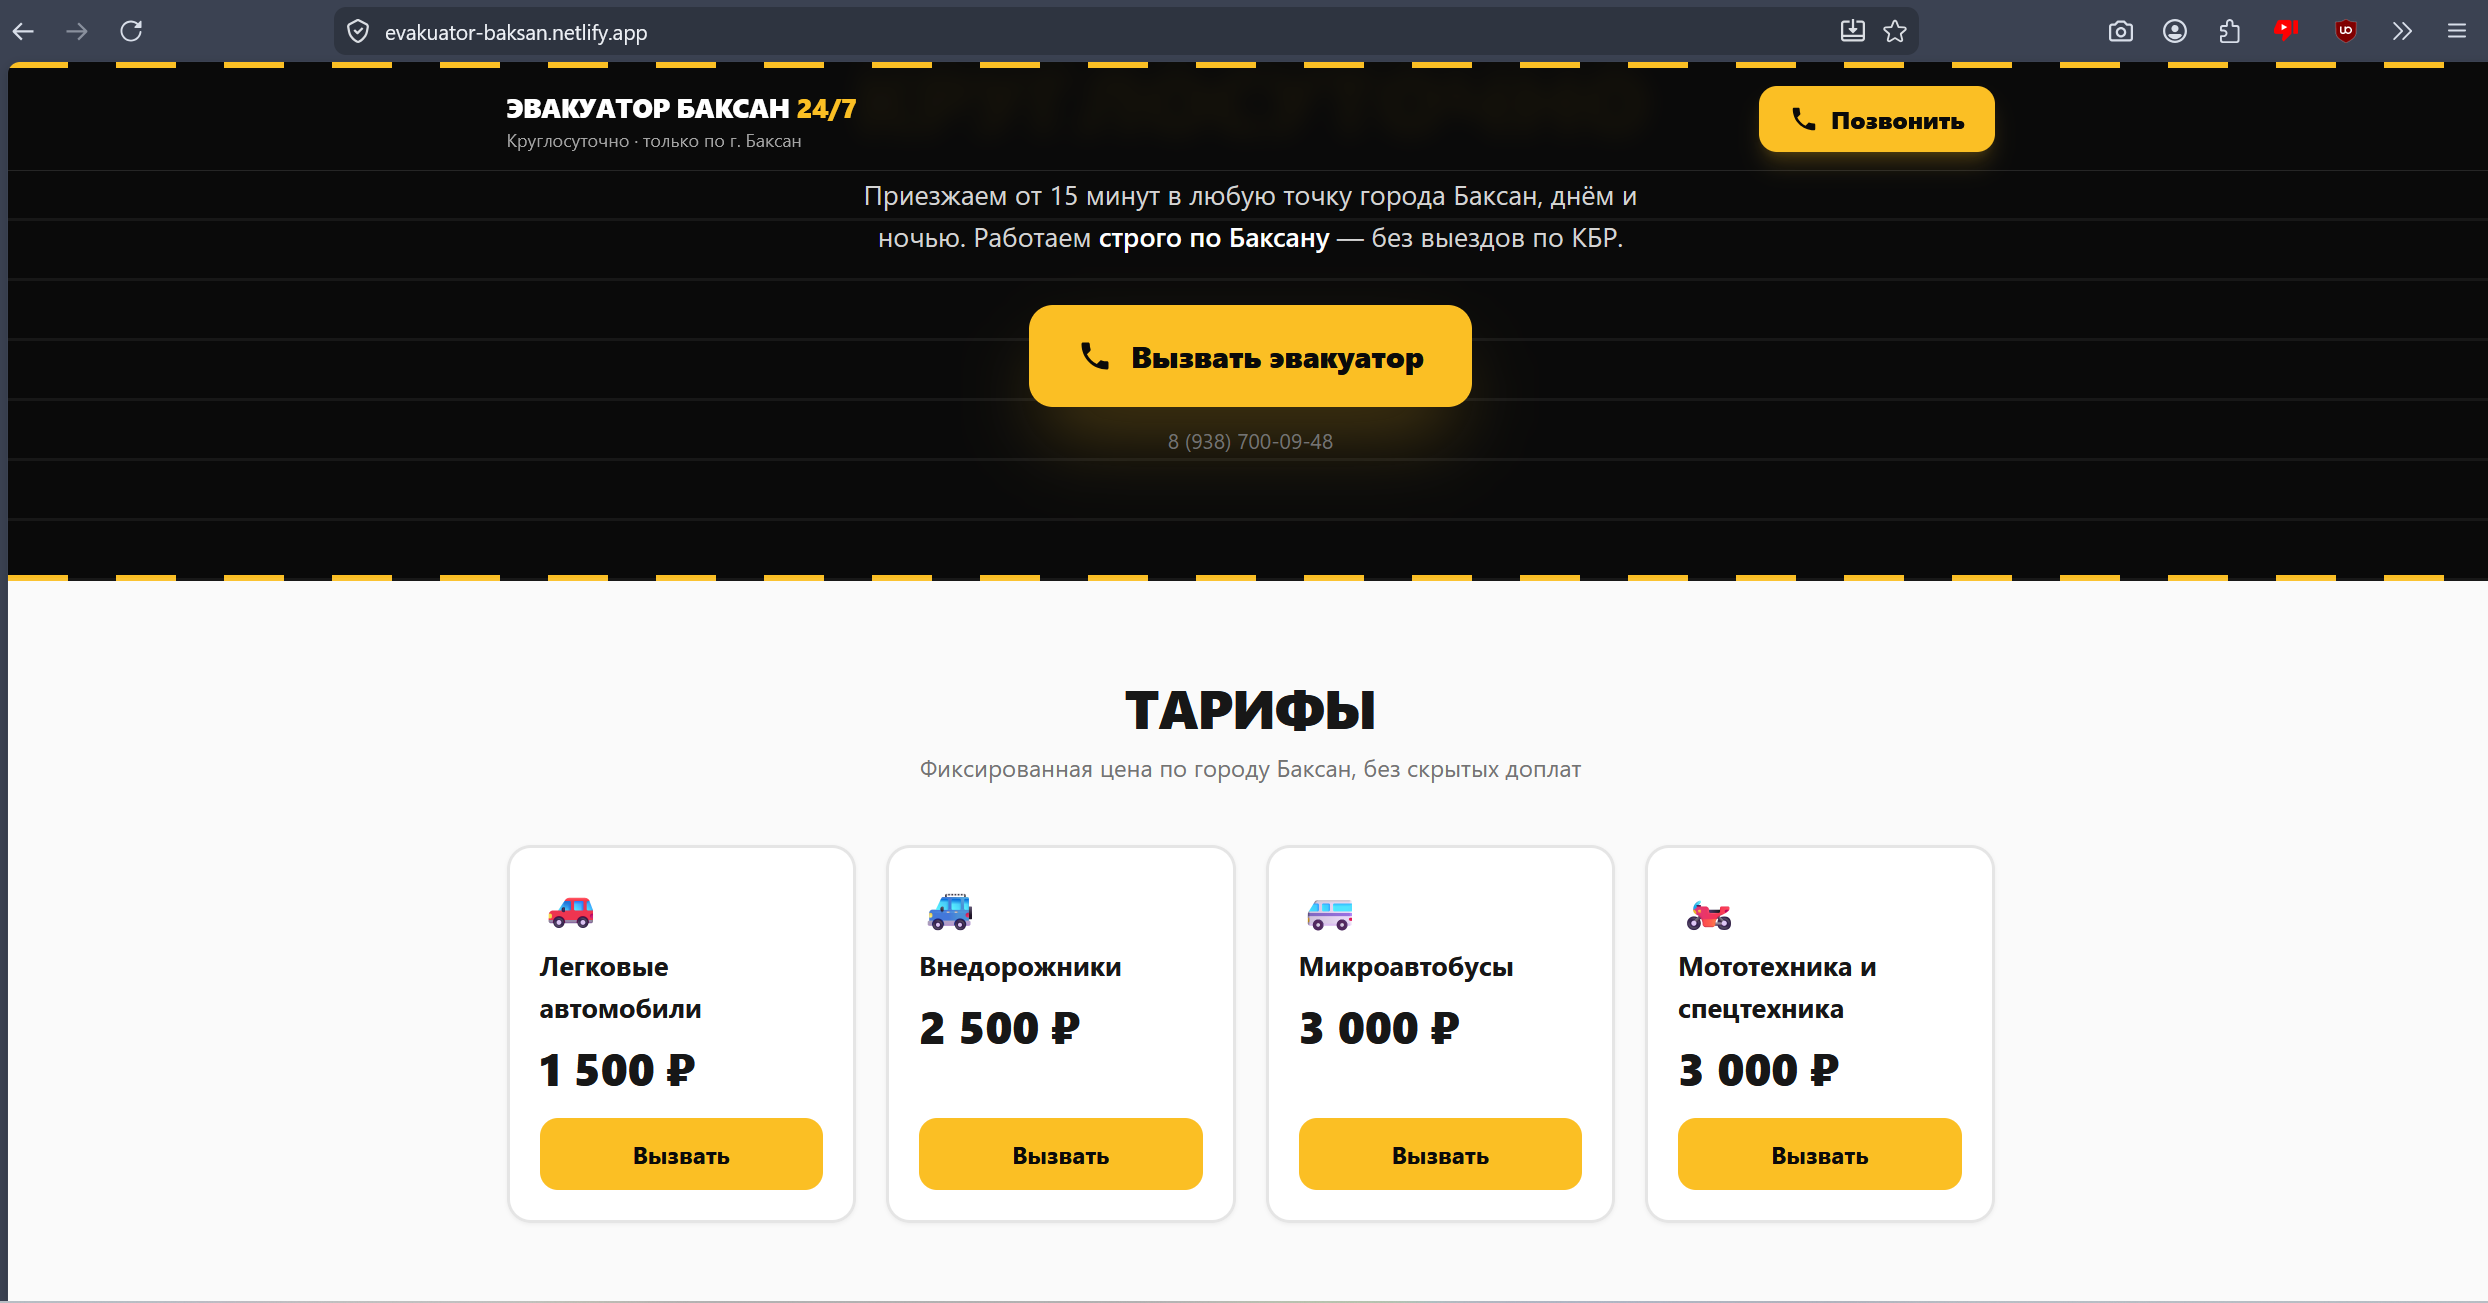
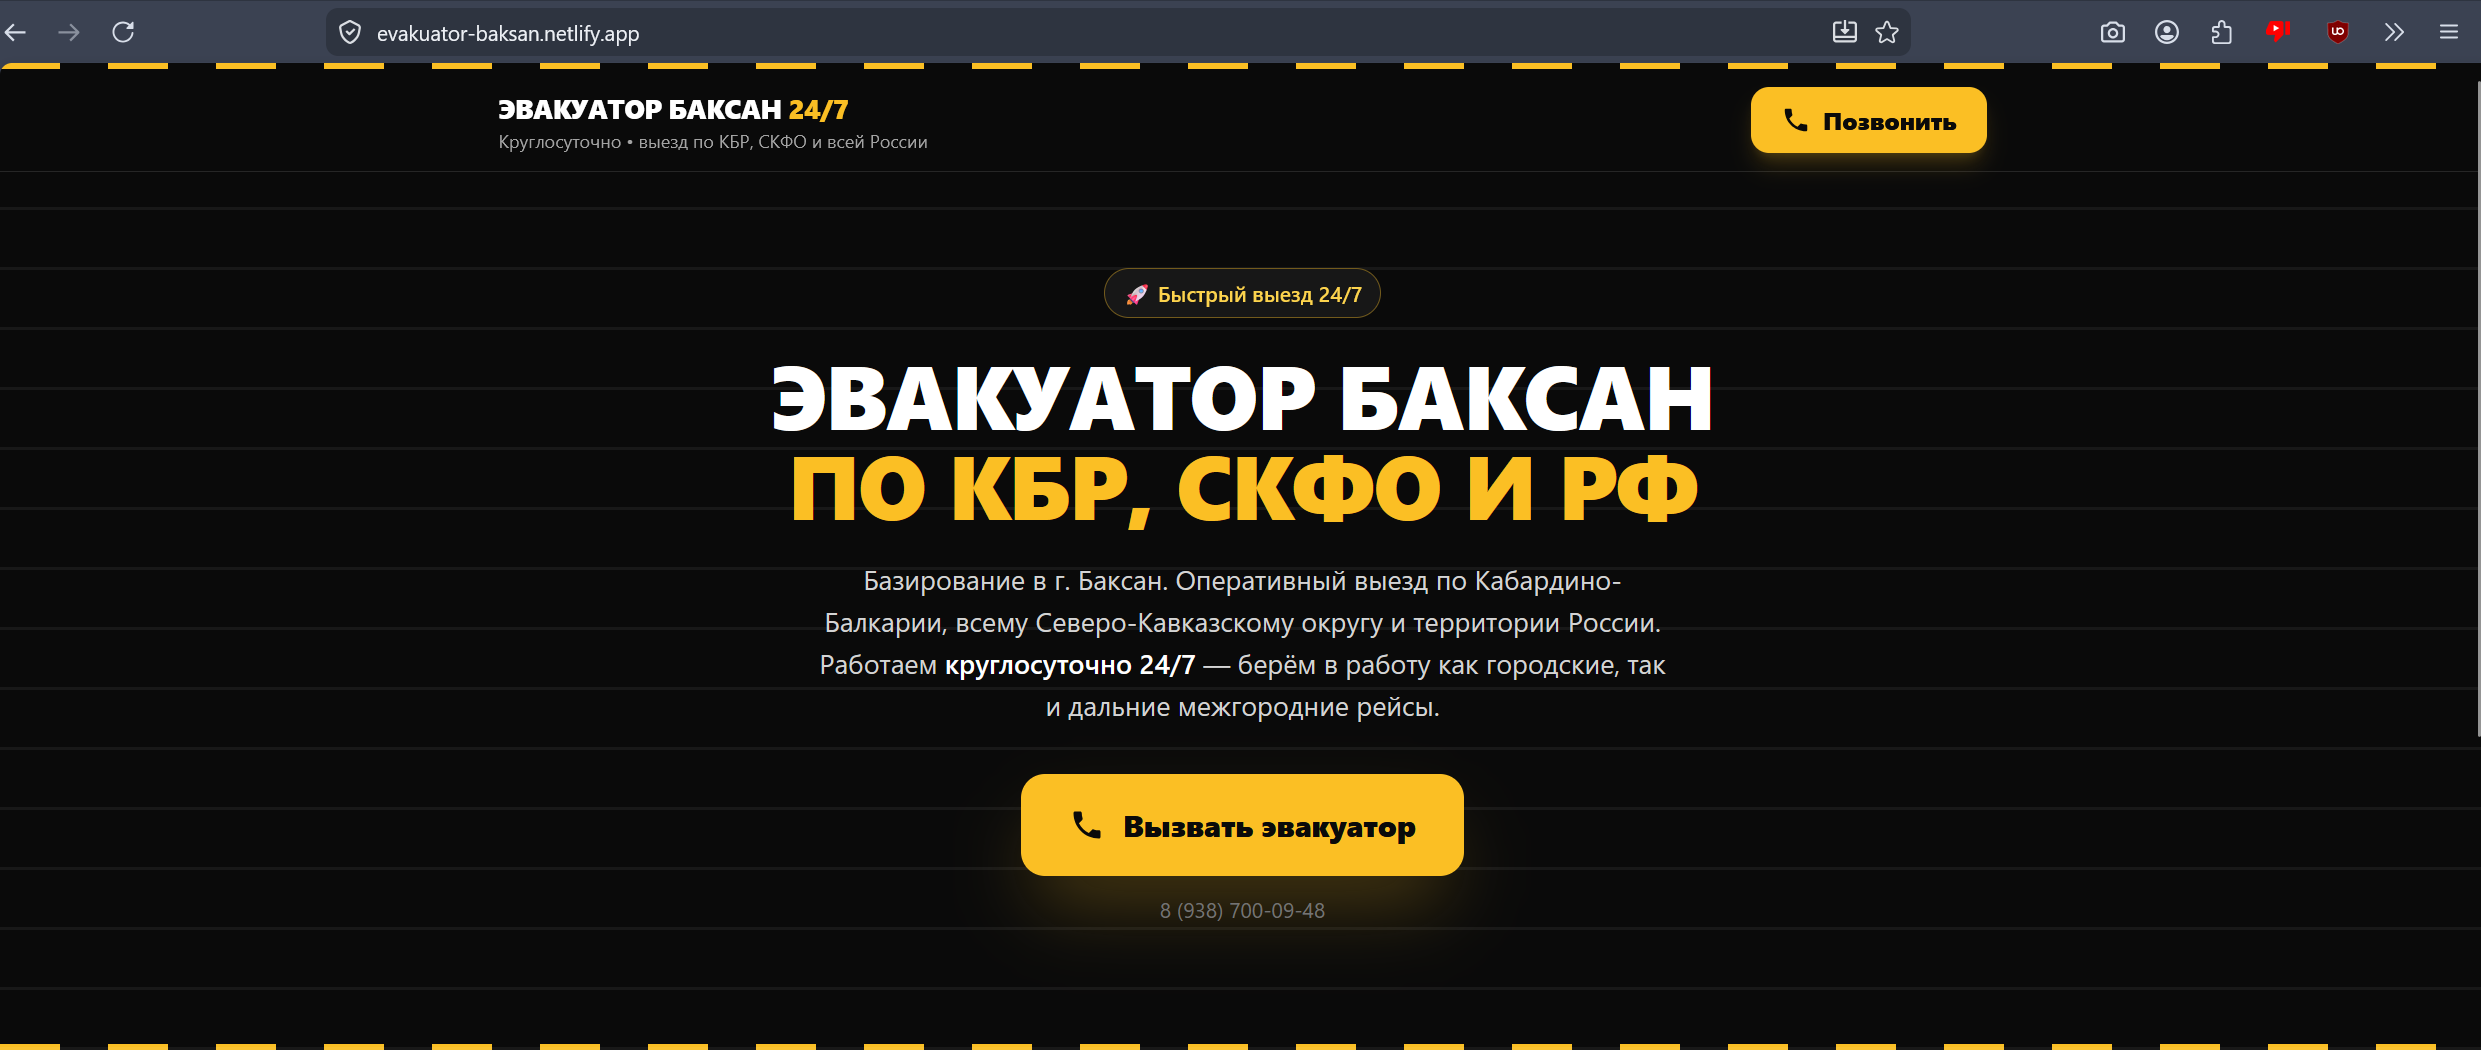
Add files via upload

diff --git a/index.html b/index.html
@@ -3,8 +3,8 @@
 <head>
 <meta charset="UTF-8">
 <meta name="viewport" content="width=device-width, initial-scale=1.0, maximum-scale=1">
-<title>Эвакуатор Баксан 24/7 — подача от 15 минут</title>
-<meta name="description" content="Эвакуатор в Баксане круглосуточно. Подача от 15 минут строго по городу Баксан. Звоните: 8 (938) 700-09-48">
+<title>Эвакуатор Баксан 24/7 — выезд по КБР, СКФО и России</title>
+<meta name="description" content="Эвакуатор Баксан 24/7. Круглосуточный оперативный выезд по Кабардино-Балкарии, СКФО и всей России. Базирование в г. Баксан. Звоните: 8 (938) 700-09-48">
 <script src="https://cdn.tailwindcss.com"></script>
 <style>
   body { font-family: -apple-system, BlinkMacSystemFont, "Segoe UI", Roboto, Arial, sans-serif; }
@@ -30,7 +30,7 @@
         <p class="text-base sm:text-lg font-black uppercase headline text-white leading-tight truncate">
           Эвакуатор Баксан <span class="text-amber-400">24/7</span>
         </p>
-        <p class="text-[11px] sm:text-xs text-neutral-400 leading-tight">Круглосуточно · только по г. Баксан</p>
+        <p class="text-[11px] sm:text-xs text-neutral-400 leading-tight">Круглосуточно • выезд по КБР, СКФО и всей России</p>
       </div>
       <a href="tel:+79387000948"
          class="tap flex-shrink-0 inline-flex items-center gap-2 bg-amber-400 hover:bg-amber-300 text-neutral-950 font-extrabold text-sm sm:text-base px-4 sm:px-5 py-2.5 rounded-xl shadow-lg shadow-amber-400/20">
@@ -48,14 +48,14 @@
          style="background-image: repeating-linear-gradient(0deg, #fff 0, #fff 2px, transparent 2px, transparent 40px);"></div>
     <div class="relative max-w-5xl mx-auto px-4 pt-12 pb-14 sm:pt-16 sm:pb-20 text-center">
       <span class="inline-flex items-center gap-2 bg-neutral-900 border border-amber-400/40 text-amber-300 text-xs sm:text-sm font-semibold px-3 py-1.5 rounded-full mb-5">
-        ⏱ Подача от 15 минут
+        🚀 Быстрый выезд 24/7
       </span>
       <h1 class="headline font-black uppercase text-4xl sm:text-5xl md:text-6xl leading-[1.05] text-white">
-        Эвакуатор в Баксане<br><span class="text-amber-400">круглосуточно</span>
+        Эвакуатор Баксан<br><span class="text-amber-400">по КБР, СКФО и РФ</span>
       </h1>
       <p class="mt-5 text-neutral-300 text-base sm:text-lg max-w-xl mx-auto">
-        Приезжаем от 15 минут в любую точку города Баксан, днём и ночью.
-        Работаем <span class="text-white font-semibold">строго по Баксану</span> — без выездов по КБР.
+        Базирование в г. Баксан. Оперативный выезд по Кабардино-Балкарии, всему Северо-Кавказскому округу и территории России.
+        Работаем <span class="text-white font-semibold">круглосуточно 24/7</span> — берём в работу как городские, так и дальние межгородние рейсы.
       </p>
       <a href="tel:+79387000948"
          class="tap mt-8 inline-flex items-center justify-center gap-3 w-full sm:w-auto bg-amber-400 hover:bg-amber-300 text-neutral-950 font-black text-lg sm:text-xl px-8 py-4 sm:py-5 rounded-2xl shadow-2xl shadow-amber-400/30">
@@ -70,12 +70,12 @@
   </section>
 
   <!-- ТАРИФЫ -->
-  <section class="bg-neutral-50 text-neutral-900">
+  <section id="prices" class="bg-neutral-50 text-neutral-900">
     <div class="max-w-5xl mx-auto px-4 py-12 sm:py-16">
       <h2 class="headline font-black uppercase text-3xl sm:text-4xl text-center text-neutral-900">Тарифы</h2>
-      <p class="text-center text-neutral-500 mt-2 mb-10 text-sm sm:text-base">Фиксированная цена по городу Баксан, без скрытых доплат</p>
+      <p class="text-center text-neutral-500 mt-2 mb-10 text-sm sm:text-base">Фиксированная цена по Баксану и КБР, индивидуальный расчёт для рейсов по СКФО и всей России</p>
 
-      <div class="grid grid-cols-1 sm:grid-cols-2 lg:grid-cols-4 gap-4 sm:gap-5">
+      <div class="grid grid-cols-1 sm:grid-cols-2 lg:grid-cols-4 xl:grid-cols-5 gap-4 sm:gap-5">
 
         <!-- Легковые -->
         <div class="bg-white border-2 border-neutral-200 rounded-2xl p-5 flex flex-col shadow-sm">
@@ -109,16 +109,36 @@
           <a href="tel:+79387000948" class="tap text-center bg-amber-400 hover:bg-amber-300 text-neutral-950 font-bold py-3 rounded-xl">Вызвать</a>
         </div>
 
+        <!-- Межгород по РФ -->
+        <div class="bg-white border-2 border-amber-400 rounded-2xl p-5 flex flex-col shadow-sm">
+          <div class="text-3xl mb-2">🛣️</div>
+          <h3 class="font-bold text-lg text-neutral-900">Межгород по РФ</h3>
+          <p class="mt-2 mb-1 flex-1"><span class="text-2xl sm:text-3xl font-black text-neutral-900">от 60 ₽/км</span></p>
+          <p class="text-xs text-neutral-500 mb-4">в зависимости от типа авто · индивидуальный расчёт</p>
+          <a href="tel:+79387000948" class="tap text-center bg-amber-400 hover:bg-amber-300 text-neutral-950 font-bold py-3 rounded-xl">Вызвать</a>
+        </div>
+
       </div>
     </div>
   </section>
+<!-- ФОТО ЭВАКУАТОРА -->
+  <section id="photos" class="bg-neutral-50 text-neutral-900">
+    <div class="max-w-5xl mx-auto px-4 pb-12 sm:pb-16">
+      <h2 class="headline font-black uppercase text-3xl sm:text-4xl text-center text-neutral-900">Наш эвакуатор в работе</h2>
+      <p class="text-center text-neutral-500 mt-2 mb-8 text-sm sm:text-base">Реальные фото техники, которая приедет к вам</p>
 
+      <div class="grid grid-cols-1 sm:grid-cols-2 gap-4 sm:gap-5">
+        <img src="car1.jpg" alt="Эвакуатор Баксан — фото 1" class="w-full h-64 sm:h-80 object-cover rounded-2xl shadow-lg">
+        <img src="car2.jpg" alt="Эвакуатор Баксан — фото 2" class="w-full h-64 sm:h-80 object-cover rounded-2xl shadow-lg">
+      </div>
+    </div>
+  </section>
   <!-- ПОДВАЛ -->
   <footer class="bg-neutral-950 border-t border-neutral-800">
     <div class="road-stripe w-full"></div>
     <div class="max-w-5xl mx-auto px-4 py-10 text-center">
       <p class="headline font-black uppercase text-xl text-white">Эвакуатор Баксан 24/7</p>
-      <p class="text-neutral-400 mt-2 text-sm">Работаем круглосуточно, только по городу Баксан</p>
+      <p class="text-neutral-400 mt-2 text-sm">Круглосуточно: город Баксан, вся КБР, СКФО и Россия</p>
       <a href="tel:+79387000948" class="tap inline-block mt-5 text-2xl sm:text-3xl font-black text-amber-400">
         8 (938) 700-09-48
       </a>